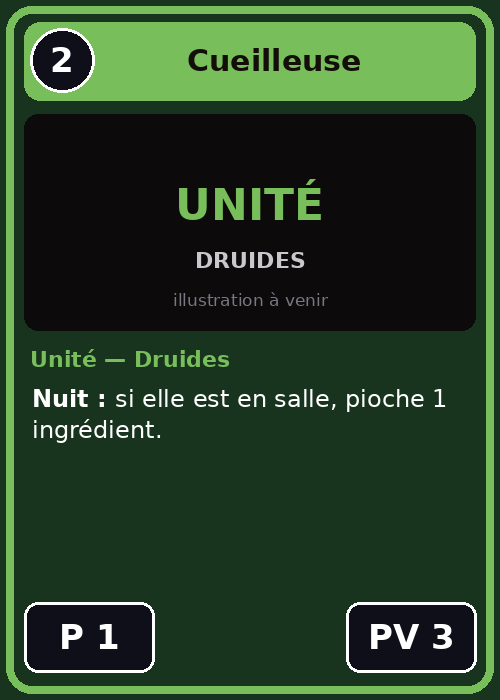
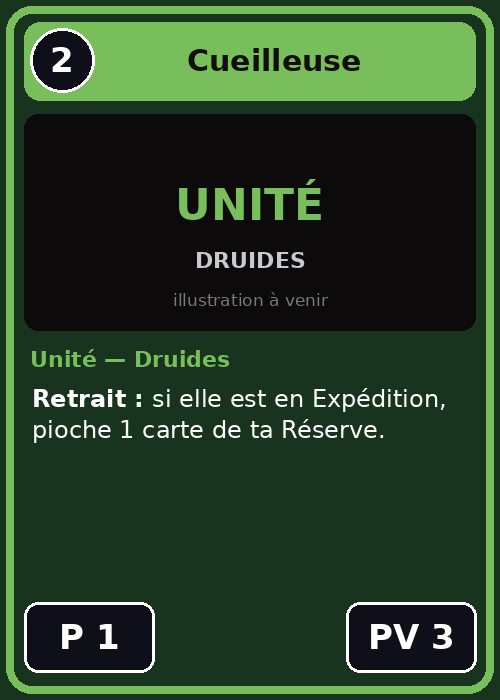
Tours individuels, Duel, mêlée : aide du jeu ; textes de cartes Repos/Stratagème/Assaut/Retrait et Réserve
Claude-Session: https://claude.ai/code/session_01Ei1ETxKFF4cSM4RwXRQ4jQ

Changed region(s): [[0.06, 0.54, 0.9, 0.63]]

diff --git a/tools/generate.py b/tools/generate.py
@@ -140,7 +140,7 @@ CARDS = [
     C("relique-test", "Relique test", "Relique", 0, "Relique",
       "Passif de relique (à définir). Gardée au Camp, volable par raid.", legal=3),
     C("carte-tresor", "Carte au trésor", "Tresor", 0, "Relique",
-      "Prise par le premier joueur qui tue un monstre (crée-la avec le panneau des jetons). +1 trésor à chaque Nuit. Gardée au Camp, volable par raid.", legal=False, token=True),
+      "Prise par le premier joueur qui tue un monstre (crée-la avec le panneau des jetons). +1 trésor à chaque Retrait de son porteur. Gardée au Camp, volable par raid.", legal=False, token=True),
     C("energie", "Énergie", "Energie", 0, "Energie",
       "Incline-la pour payer 1. 1 seule se redresse par tour.", legal=False, token=True),
     # --- Donjon ---
@@ -165,13 +165,13 @@ CARDS += [
     C("livre-secret", "Livre secret", "Recettes", 0, DRU, "", legal=False, token=True),
 ]
 _BAR = ("**Aura :** tes unités de sa salle ont +1 Puissance.\n**Encaisser :** prend les dégâts d'une de tes unités de sa salle.\n"
-        "**Tirer une pinte :** 1 fois par tour, perds 1 PV pour piocher 1 carte de la Cave.\n")
+        "**Tirer une pinte :** 1 fois par tour, perds 1 PV pour piocher 1 carte de ta Réserve.\n")
 
 # Textes de cartes (une ligne par effet, le moment en gras)
 TEXTS = {
  "habitue": "**Près du baril :** +1 PV.",
  "serveuse": "**Arrivée :** une de tes unités gagne +1/+1.",
- "poker": "**Bluff :** se pose face cachée au Midi, révélée au Crépuscule.",
+ "poker": "**Bluff :** se pose face cachée au Stratagème, révélée à l'Assaut.",
  "porteur": "**Arrivée :** déplace ton baril dans la salle de cette unité.",
  "barde": "**Dans sa salle :** tes autres unités ont +1 Puissance.",
  "videur": "**Protecteur.**\n**Défense :** peut défendre le Camp même s'il est en salle.",
@@ -183,20 +183,20 @@ TEXTS = {
  "biere": "**Alcool.** +1 Puissance.",
  "cidre": "**Alcool.** +1 PV.",
  "hydromel": "**Alcool.** +2 PV et soigne 2 PV.",
- "rhum": "**Alcool.** +2 Puissance.\n**Nuit :** l'unité est Sonnée le tour suivant.",
+ "rhum": "**Alcool.** +2 Puissance.\n**Retrait :** l'unité est Sonnée le tour suivant.",
  "whisky": "**Alcool.** L'unité ne peut pas être Sonnée.",
  "vin-chaud": "**Alcool.** Soigne complètement l'unité.",
  "absinthe": "**Alcool.** +3 Puissance.\n**Ton tour suivant :** l'unité perd 2 PV.",
  "liqueur-feu": "**Alcool.**\n**Dernier souffle :** 2 dégâts à chaque ennemi de sa salle.",
- "cernun": "**Livre ancien** (fiche liée) : recettes de buff.\n**Aube :** Cueillette. Pioche 3 ingrédients, défausse-en 1 dans ta Réserve (mélange), garde 2 sous Cernun (4 max).\n**Crépuscule :** cuisine 1 recette.\n**Monstre tué :** +1 ingrédient.\n**Défense du Camp :** invoque 2 Pousses.",
+ "cernun": "**Livre ancien** (fiche liée) : recettes de buff.\n**Repos :** Cueillette. Pioche 3 cartes de ta Réserve, remets-en 1 (mélange), garde 2 sous Cernun (4 max).\n**Assaut :** cuisine 1 recette.\n**Monstre tué :** pioche 1 carte de ta Réserve.\n**Défense du Camp :** invoque 2 Pousses.",
  "champignon": "**Ingrédient.** Seul, il ne fait rien : cuisine-le avec le Livre.",
  "baies": "**Ingrédient.** Seules, elles ne font rien : cuisine-les avec le Livre.",
  "racine": "**Ingrédient.** Seule, elle ne fait rien : cuisine-la avec le Livre.",
  "miel": "**Ingrédient.** Seul, il ne fait rien : cuisine-le avec le Livre.",
  "herbes": "**Ingrédient.** Seules, elles ne font rien : cuisine-les avec le Livre.",
  "lutin": "**Arrivée :** invoque une Pousse.",
- "chouette": "**Arrivée :** pioche 2 ingrédients, garde-en 1, remets l'autre et mélange.",
- "cueilleuse": "**Nuit :** si elle est en salle, pioche 1 ingrédient.",
+ "chouette": "**Arrivée :** pioche 2 cartes de ta Réserve, garde-en 1, remets l'autre et mélange.",
+ "cueilleuse": "**Retrait :** si elle est en Expédition, pioche 1 carte de ta Réserve.",
  "invocateur": "**Combat :** invoque une Pousse dans sa salle.",
  "chamane": "**Combat :** tes autres unités de sa salle ont +1 Puissance.",
  "dryade": "**Dernier souffle :** invoque 2 Pousses.",
@@ -208,17 +208,17 @@ TEXTS = {
  "croissance": "**Rapide.** Une de tes unités gagne +2/+2 ce tour.",
  "appel-meute": "Invoque 2 Loups, chacun dans une salle où tu as une unité.",
  "spores": "1 dégât à chaque ennemi d'une salle. Invoque une Pousse par ennemi tué.",
- "eveil-foret": "Invoque une Pousse dans chaque salle.\nTes unités gagnent +1/+1 ce tour.\nPioche 1 ingrédient.\n**Signature :** 1 exemplaire max.",
+ "eveil-foret": "Invoque une Pousse dans chaque salle.\nTes unités gagnent +1/+1 ce tour.\nPioche 1 carte de ta Réserve.\n**Signature :** 1 exemplaire max.",
  "pousse": "**Jeton.** Compte dans la limite de 3 unités par salle.",
  "loup": "**Jeton.** Compte dans la limite de 3 unités par salle.",
  "jet-chaises": "2 dégâts à une cible, qui est Sonnée.",
- "rosa": "**Baril explosif** (jeton 4 PV, voir fiche) : pose-le dans une salle au 1er Crépuscule.\n**Aube :** soigne 2 PV au baril.\n**Tirer une pinte :** regarde 2 cartes de la Cave, prends-en 1, remets l'autre et mélange.\n**Défense du Camp :** 1 dégât à chaque attaquant.",
- "belladone": "**Livre empoisonneur** (fiche liée) : recettes qui blessent.\n**Aube :** Cueillette. Pioche 2 ingrédients, garde-les sous Belladone (4 max).\n**Crépuscule :** cuisine 1 recette.\n**Défense du Camp :** la première unité qui attaque Belladone est Sonnée.",
- "sylve": "**Livre secret** (fiche liée) : chaque recette donne Rapide.\n**Aube :** Cueillette. Pioche 2 ingrédients, garde-les sous Sylve (4 max).\n**Midi :** choisis ta recette face cachée.\n**Crépuscule :** révèle-la et cuisine-la.",
- "livre-ancien": "**Crépuscule :** 1 recette par tour, effet ce tour. Les ingrédients retournent dans la Réserve (mélange).\n**Soupe de racines** (Racine + Champignon) : tes unités +2 PV.\n**Tarte aux baies** (Baies + Miel) : tes unités +1 Puissance.\n**Tisane des bois** (Herbes + Miel) : soigne une salle, ses unités ne sont pas Sonnées.\n**Poêlée des esprits** (Champignon + Herbes + Baies) : 1 Pousse par salle où tu as une unité.\n**Banquet de Cernun** (4 ingrédients différents) : tes unités +2/+2.",
- "livre-empoisonneur": "**Crépuscule :** 1 recette par tour. Les ingrédients retournent dans la Réserve (mélange).\n**Sève amère** (Racine + Champignon) : 1 dégât à chaque ennemi d'une salle.\n**Brouet de baies** (Baies + Miel) : 2 dégâts à une cible, qui est Sonnée.\n**Fumée d'herbes** (Herbes + Champignon) : les ennemis d'une salle sont Sonnés.\n**Philtre noir** (3 ingrédients différents) : 2 dégâts à chaque ennemi d'une salle.",
- "livre-secret": "**Midi :** 1 recette face cachée. **Crépuscule :** révèle-la et cuisine-la. Les ingrédients retournent dans la Réserve (mélange).\n**Pain de route** (Racine + Miel) : tes unités gagnent Rapide.\n**Infusion vive** (Herbes + Baies) : Rapide et +1 Puissance.\n**Festin de l'ombre** (3 ingrédients différents) : Rapide et +1/+1.\n**Rapide :** une unité peut changer de salle après son combat.",
- "guss": "**Baril de chêne** (jeton 6 PV, voir fiche) : pose-le dans une salle au 1er Crépuscule.\n**Aube :** soigne complètement le baril.\n**Défense du Camp :** tes défenseurs ont +1 Puissance.\n**Raid :** la première unité qui attaque Guss est Sonnée."
+ "rosa": "**Baril explosif** (jeton 4 PV, voir fiche) : pose-le dans une salle au 1er Assaut.\n**Repos :** soigne 2 PV au baril.\n**Tirer une pinte :** regarde 2 cartes de ta Réserve, prends-en 1, remets l'autre et mélange.\n**Défense du Camp :** 1 dégât à chaque attaquant.",
+ "belladone": "**Livre empoisonneur** (fiche liée) : recettes qui blessent.\n**Repos :** Cueillette. Pioche 2 cartes de ta Réserve, garde-les sous Belladone (4 max).\n**Assaut :** cuisine 1 recette.\n**Défense du Camp :** la première unité qui attaque Belladone est Sonnée.",
+ "sylve": "**Livre secret** (fiche liée) : chaque recette donne Rapide.\n**Repos :** Cueillette. Pioche 2 cartes de ta Réserve, garde-les sous Sylve (4 max).\n**Stratagème :** choisis ta recette face cachée.\n**Assaut :** révèle-la et cuisine-la.",
+ "livre-ancien": "**Assaut :** 1 recette par tour, instantanée (même en Duel), effet ce tour. Les cartes utilisées retournent dans ta Réserve (mélange).\n**Soupe de racines** (Racine + Champignon) : tes unités +2 PV.\n**Tarte aux baies** (Baies + Miel) : tes unités +1 Puissance.\n**Tisane des bois** (Herbes + Miel) : soigne une salle, ses unités ne sont pas Sonnées.\n**Poêlée des esprits** (Champignon + Herbes + Baies) : 1 Pousse par salle où tu as une unité.\n**Banquet de Cernun** (4 ingrédients différents) : tes unités +2/+2.",
+ "livre-empoisonneur": "**Assaut :** 1 recette par tour, instantanée (même en Duel). Les cartes utilisées retournent dans ta Réserve (mélange).\n**Sève amère** (Racine + Champignon) : 1 dégât à chaque ennemi d'une salle.\n**Brouet de baies** (Baies + Miel) : 2 dégâts à une cible, qui est Sonnée.\n**Fumée d'herbes** (Herbes + Champignon) : les ennemis d'une salle sont Sonnés.\n**Philtre noir** (3 ingrédients différents) : 2 dégâts à chaque ennemi d'une salle.",
+ "livre-secret": "**Stratagème :** 1 recette face cachée. **Assaut :** révèle-la et cuisine-la. Les cartes utilisées retournent dans ta Réserve (mélange).\n**Pain de route** (Racine + Miel) : tes unités gagnent Rapide.\n**Infusion vive** (Herbes + Baies) : Rapide et +1 Puissance.\n**Festin de l'ombre** (3 ingrédients différents) : Rapide et +1/+1.\n**Rapide :** une unité peut changer de salle après son combat.",
+ "guss": "**Baril de chêne** (jeton 6 PV, voir fiche) : pose-le dans une salle au 1er Assaut.\n**Repos :** soigne complètement le baril.\n**Défense du Camp :** tes défenseurs ont +1 Puissance.\n**Raid :** la première unité qui attaque Guss est Sonnée."
 }
 
 TEXTS["baril-chene"] = _BAR + "**À 0 PV :** 1 dégât à tout ce qui est dans la salle.\nUn seul baril ; il ne rentre jamais au Camp."

diff --git a/tools/board_layout.py b/tools/board_layout.py
@@ -126,3 +126,21 @@ g['customHelp']=g['customHelp'].replace(
  "Blessée, elle revient au Camp.",
  "À l'Aube, une unité intacte peut passer dans une Expédition voisine (1↔2, 2↔3, 3↔4) ou rentrer au Camp, une fois par tour. Blessée, elle revient au Camp.")
 json.dump(g,open(P,'w'),ensure_ascii=False,indent=2)
+
+# Aide complète (tours individuels, Duel, mêlée, Réserve) : remplace tout le texte
+g=json.load(open(P))
+g['customHelp']="\n".join([
+ "Proto de Guild Rush. Ivrognes (Guss) contre Druides (Cernun).",
+ "Plateau : les monstres au centre (Monstre 1 à 4, Boss, pioche et défausse, panneau Donjon). En face de chaque monstre, une Expédition par joueur (3 unités max, jetons compris). Ta zone : Expéditions 1-4, Gardien, Réserve ; Énergie, pioche de reliques, Camp.",
+ "Ton tour : Repos (3 énergies se redressent toutes seules, pioche 1, passif du Gardien) → Stratagème (Éclaireurs, cartes face cachée) → Assaut → Retrait (trésors, soins au Camp).",
+ "Assaut : pose tes unités (elles arrivent dans l'Expédition 1 : déplace-les dans l'Expédition voulue ou au Camp) ; une unité déjà en jeu peut aller dans une Expédition voisine ou au Camp, une fois par tour. Puis attaque salle par salle : chaque attaque ouvre un Duel (annonce-le dans le chat). L'adversaire répond en premier, puis chacun joue une carte Rapide ou instantanée (alcool, recette) ou passe ; deux passes de suite = combat. Si les deux joueurs ont des unités dans la salle : mêlée (le monstre frappe d'abord, puis les unités alternent ; le coup de grâce prend les trésors).",
+ "Fin de manche (après le tour du second joueur) : les monstres survivants évoluent (dès l'étage 2) ; si l'étage est vidé, l'hôte clique « Étage suivant » (4 nouveaux monstres, +2 énergies).",
+ "Énergie : 3 au départ, +2 par étage. Incline une Énergie pour payer 1.",
+ "Compteur = Trésors. Jetons Dégât et Baril à poser sur les cartes.",
+ "Réserve des Ivrognes (alcools) : tire une pinte (1 PV du baril) pour piocher 1 carte de ta Réserve, 1 fois par tour. Un alcool s'attache à ton unité dans la salle du baril, même en combat.",
+ "Réserve des Druides (ingrédients) : au Repos, pioche 3 cartes de ta Réserve, garde-en 2 sur Cernun (panier de 4 max), remets la 3e et mélange. À l'Assaut, cuisine 1 recette ; les cartes utilisées retournent dans ta Réserve.",
+ "Pile de Réserve : clique dessus pour piocher 1 carte ; clic droit pour la mélanger.",
+ "Jetons Pousse et Loup : clic droit sur la carte qui les invoque, ou panneau des jetons.",
+ "Baril et Livre de recettes : fiches à créer avec le panneau des jetons du Gardien (clic droit sur lui).",
+])
+json.dump(g,open(P,'w'),ensure_ascii=False,indent=2)
